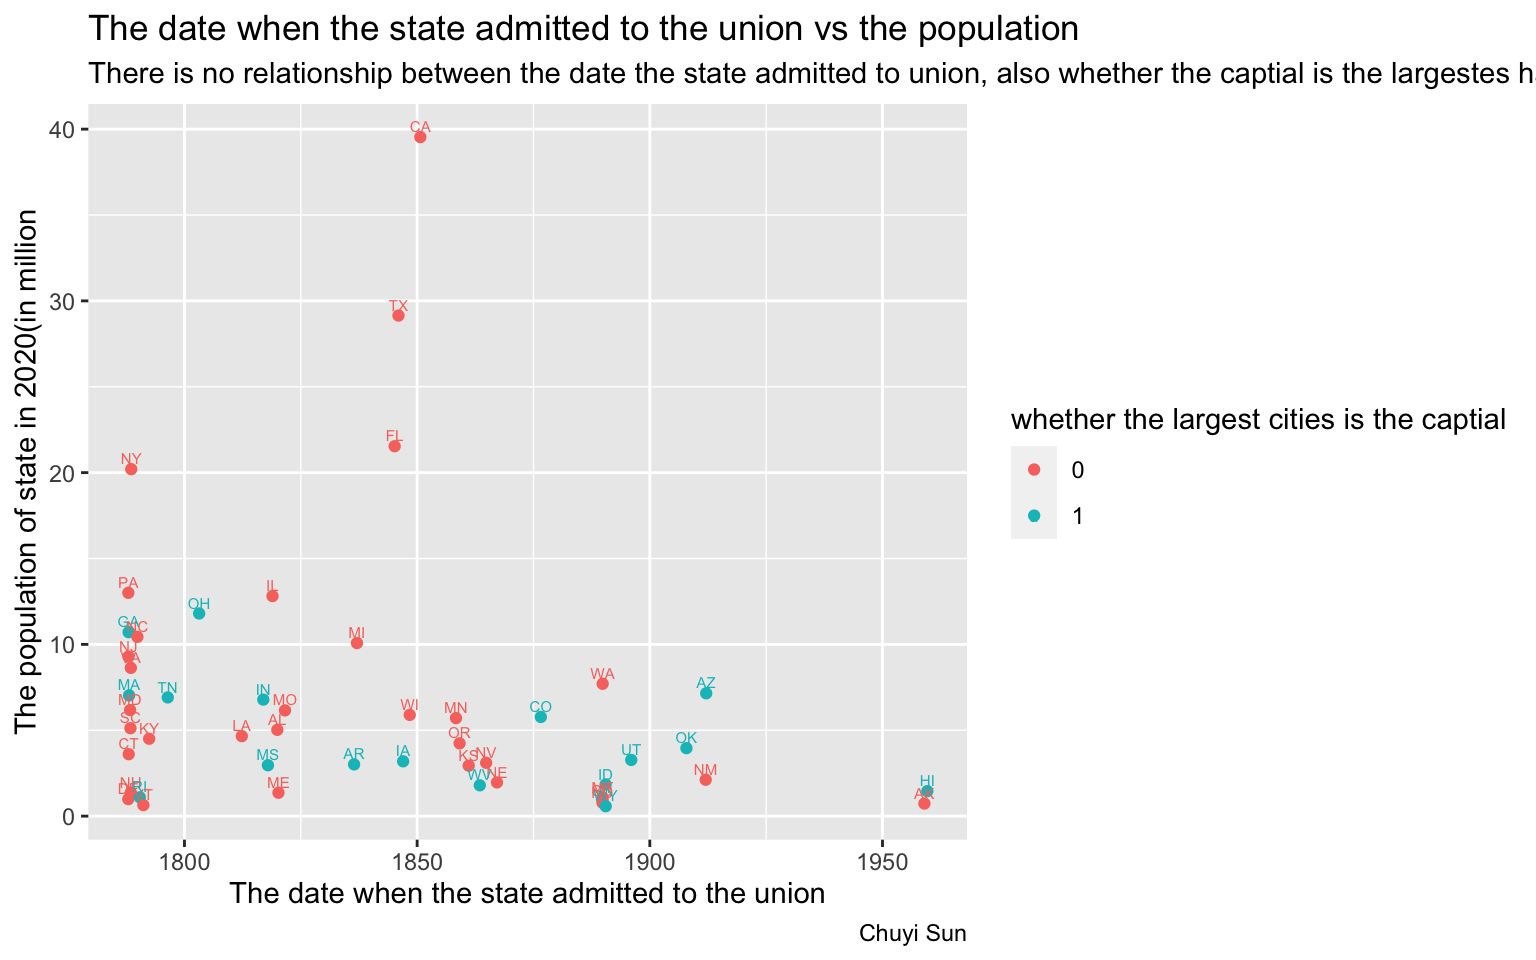
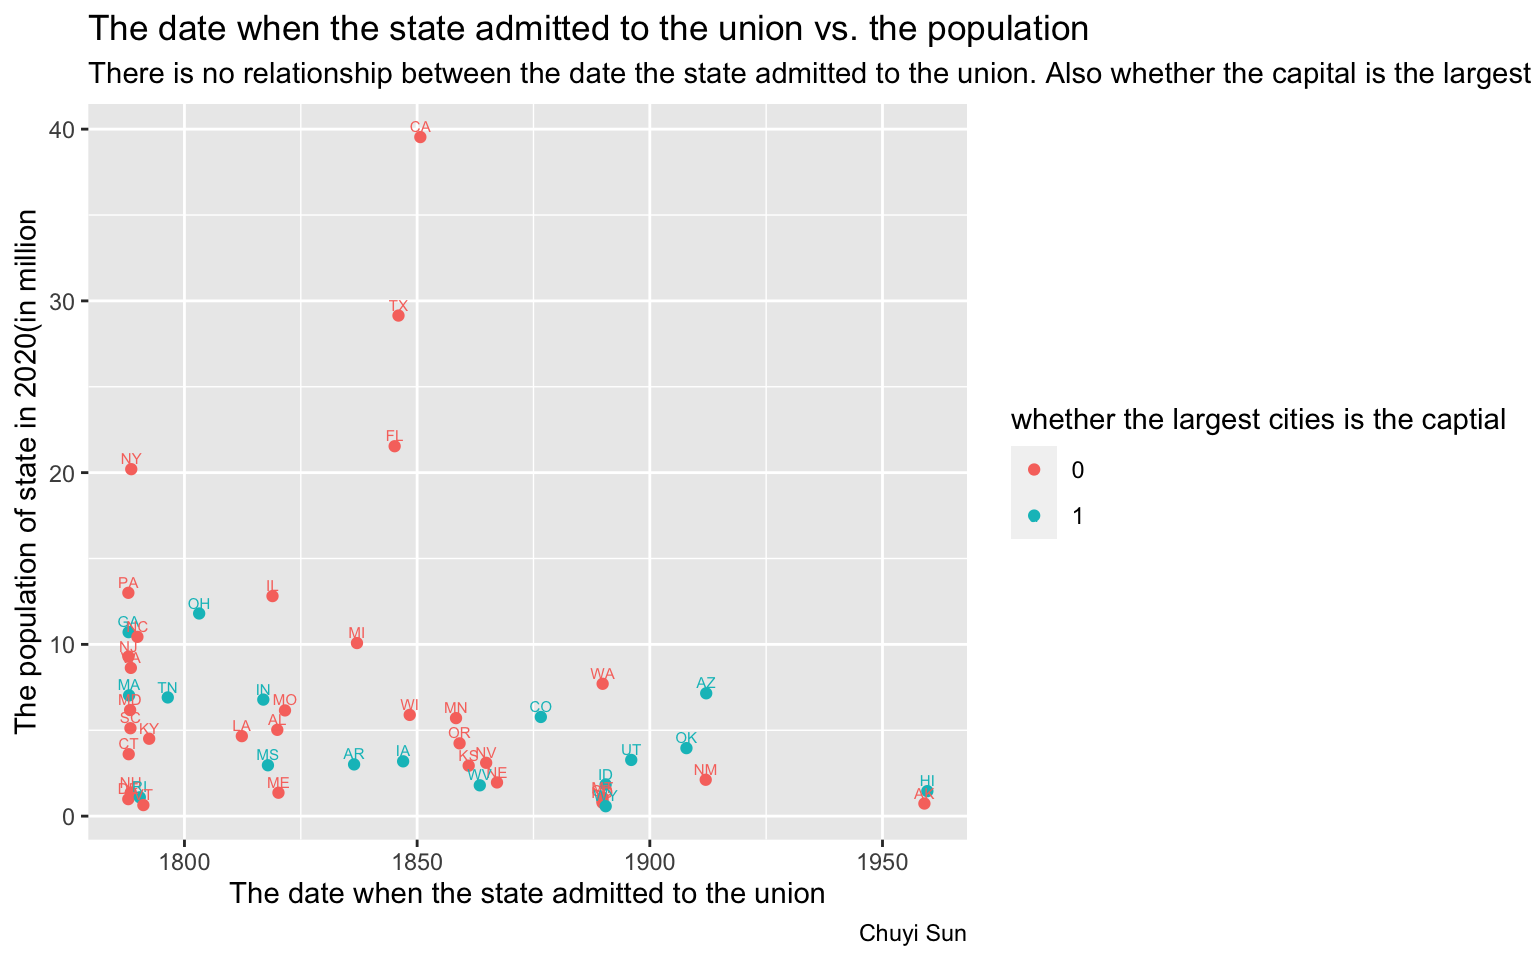
new

Changed region(s): [[0.5625, 0.0, 1.0, 0.0938]]

diff --git a/_site/data_analysis.html b/_site/data_analysis.html
@@ -207,19 +207,22 @@ div.csl-indent {
 </div>
 <section id="question" class="level2">
 <h2 class="anchored" data-anchor-id="question">Question</h2>
-<p>This analysis is aim to learn some information about different states in the US. from the article<span class="citation" data-cites="states_admission">(<a href="#ref-states_admission" role="doc-biblioref">ThoughtCo Year</a>)</span> and I have noticed that the capital might not the largest cities in the some states and capitals may also don’t have large population. Therefore I did this analysis try to see the relationship between total area, history of each state, and population.</p>
+<p>This analysis aims to gather some information about different states in the US. I used to think the capital is most likely to be the largest city in the state, however it seems most of the time it is not true, and after reading the article<span class="citation" data-cites="states_admission">(<a href="#ref-states_admission" role="doc-biblioref">ThoughtCo Year</a>)</span>, I am think whether is has some relation with the history. Therefore, I conducted this analysis try to explore the relationship between total area, history of each state, and its population.</p>
 </section>
 <section id="dataset-intro" class="level2">
 <h2 class="anchored" data-anchor-id="dataset-intro">Dataset Intro</h2>
-<p>The dataset is from tidytuesday<span class="citation" data-cites="tidytuesday">(<a href="#ref-tidytuesday" role="doc-biblioref">Community 2023</a>)</span>. The dictionary and dataset can be found from this <a href="https://github.com/rfordatascience/tidytuesday/blob/master/data/2023/2023-08-01/readme.md">website</a>. After install the tidytuesdayR, people also can get access to this dataset.</p>
+<p>The dataset is from tidytuesday<span class="citation" data-cites="tidytuesday">(<a href="#ref-tidytuesday" role="doc-biblioref">Community 2023</a>)</span>. The dictionary and dataset can be found on this <a href="https://github.com/rfordatascience/tidytuesday/blob/master/data/2023/2023-08-01/readme.md">website</a>. After installing the tidytuesdayR, people also can get access to this dataset.</p>
 </section>
 <section id="audiance" class="level2">
 <h2 class="anchored" data-anchor-id="audiance">Audiance</h2>
-<p>This data analysis is an demo of the visualization skills. It should be future develop using more advanced skills. Based on that, the current audience is the just the students in this course.</p>
+<p>This data analysis is a demonstration of the visualization skills. It should be further developed using more advanced techniques. Based on that, the current audience is the students in this course.</p>
 <div id="about-block">
 <div class="cell">
+<details>
+<summary>Code</summary>
 <div class="sourceCode cell-code" id="cb1"><pre class="sourceCode r code-with-copy"><code class="sourceCode r"><span id="cb1-1"><a href="#cb1-1" aria-hidden="true" tabindex="-1"></a><span class="fu">library</span>(tidytuesdayR)</span>
 <span id="cb1-2"><a href="#cb1-2" aria-hidden="true" tabindex="-1"></a><span class="fu">library</span>(tidyverse)</span></code><button title="Copy to Clipboard" class="code-copy-button"><i class="bi"></i></button></pre></div>
+</details>
 <div class="cell-output cell-output-stderr">
 <pre><code>── Attaching core tidyverse packages ──────────────────────── tidyverse 2.0.0 ──
 ✔ dplyr     1.1.3     ✔ readr     2.1.4
@@ -232,13 +235,19 @@ div.csl-indent {
 ✖ dplyr::lag()    masks stats::lag()
 ℹ Use the conflicted package (&lt;http://conflicted.r-lib.org/&gt;) to force all conflicts to become errors</code></pre>
 </div>
+<details>
+<summary>Code</summary>
 <div class="sourceCode cell-code" id="cb3"><pre class="sourceCode r code-with-copy"><code class="sourceCode r"><span id="cb3-1"><a href="#cb3-1" aria-hidden="true" tabindex="-1"></a><span class="fu">library</span>(dplyr)</span>
 <span id="cb3-2"><a href="#cb3-2" aria-hidden="true" tabindex="-1"></a><span class="fu">library</span>(ggplot2)</span></code><button title="Copy to Clipboard" class="code-copy-button"><i class="bi"></i></button></pre></div>
+</details>
 </div>
 <section id="import-data" class="level1">
 <h1>Import Data</h1>
 <div class="cell">
+<details>
+<summary>Code</summary>
 <div class="sourceCode cell-code" id="cb4"><pre class="sourceCode r code-with-copy"><code class="sourceCode r"><span id="cb4-1"><a href="#cb4-1" aria-hidden="true" tabindex="-1"></a>states<span class="ot">=</span> tidytuesdayR<span class="sc">::</span><span class="fu">tt_load</span>(<span class="st">'2023-08-01'</span>)</span></code><button title="Copy to Clipboard" class="code-copy-button"><i class="bi"></i></button></pre></div>
+</details>
 <div class="cell-output cell-output-stderr">
 <pre><code>--- Compiling #TidyTuesday Information for 2023-08-01 ----</code></pre>
 </div>
@@ -256,8 +265,11 @@ div.csl-indent {
 <div class="cell-output cell-output-stderr">
 <pre><code>--- Download complete ---</code></pre>
 </div>
+<details>
+<summary>Code</summary>
 <div class="sourceCode cell-code" id="cb10"><pre class="sourceCode r code-with-copy"><code class="sourceCode r"><span id="cb10-1"><a href="#cb10-1" aria-hidden="true" tabindex="-1"></a>states_general<span class="ot">=</span>states[[<span class="st">"states"</span>]]</span>
 <span id="cb10-2"><a href="#cb10-2" aria-hidden="true" tabindex="-1"></a>state_name_etymology<span class="ot">=</span>states[[<span class="st">"state_name_etymology"</span>]]</span></code><button title="Copy to Clipboard" class="code-copy-button"><i class="bi"></i></button></pre></div>
+</details>
 </div>
 </section>
 </div>
@@ -265,6 +277,8 @@ div.csl-indent {
 <section id="data-wrangling" class="level2">
 <h2 class="anchored" data-anchor-id="data-wrangling">Data Wrangling</h2>
 <div class="cell">
+<details>
+<summary>Code</summary>
 <div class="sourceCode cell-code" id="cb11"><pre class="sourceCode r code-with-copy"><code class="sourceCode r"><span id="cb11-1"><a href="#cb11-1" aria-hidden="true" tabindex="-1"></a>data_final<span class="ot">=</span>states_general<span class="sc">%&gt;%</span></span>
 <span id="cb11-2"><a href="#cb11-2" aria-hidden="true" tabindex="-1"></a>  <span class="fu">full_join</span>(state_name_etymology, <span class="at">by=</span><span class="st">"state"</span>)<span class="sc">%&gt;%</span></span>
 <span id="cb11-3"><a href="#cb11-3" aria-hidden="true" tabindex="-1"></a>  <span class="fu">distinct</span>(state, <span class="at">.keep_all=</span><span class="cn">TRUE</span>)<span class="sc">%&gt;%</span></span>
@@ -275,6 +289,7 @@ div.csl-indent {
 <span id="cb11-8"><a href="#cb11-8" aria-hidden="true" tabindex="-1"></a></span>
 <span id="cb11-9"><a href="#cb11-9" aria-hidden="true" tabindex="-1"></a>data_final<span class="sc">%&gt;%</span></span>
 <span id="cb11-10"><a href="#cb11-10" aria-hidden="true" tabindex="-1"></a>  <span class="fu">head</span>(<span class="dv">5</span>)</span></code><button title="Copy to Clipboard" class="code-copy-button"><i class="bi"></i></button></pre></div>
+</details>
 <div class="cell-output cell-output-stdout">
 <pre><code># A tibble: 5 × 16
   state postal_abbreviation capital_city largest_city admission  population_2020
@@ -300,10 +315,12 @@ Tip
 </div>
 </div>
 <div class="callout-body-container callout-body">
-<p>The state have more than one name and meanings, so we have over 50 row in our original dataset.</p>
+<p>Some state have more than one name and meanings, so we have over 50 row in our original dataset. After use distinct function, there should be only 50.</p>
 </div>
 </div>
 <div class="cell">
+<details>
+<summary>Code</summary>
 <div class="sourceCode cell-code" id="cb13"><pre class="sourceCode r code-with-copy"><code class="sourceCode r"><span id="cb13-1"><a href="#cb13-1" aria-hidden="true" tabindex="-1"></a>state_land<span class="ot">=</span>data_final<span class="sc">%&gt;%</span></span>
 <span id="cb13-2"><a href="#cb13-2" aria-hidden="true" tabindex="-1"></a>  <span class="fu">select</span>(state, land_area_km2)<span class="sc">%&gt;%</span></span>
 <span id="cb13-3"><a href="#cb13-3" aria-hidden="true" tabindex="-1"></a>  <span class="fu">rename</span>(<span class="at">area=</span>land_area_km2)<span class="sc">%&gt;%</span></span>
@@ -315,6 +332,7 @@ Tip
 <span id="cb13-9"><a href="#cb13-9" aria-hidden="true" tabindex="-1"></a>water_land<span class="ot">=</span>state_water<span class="sc">%&gt;%</span></span>
 <span id="cb13-10"><a href="#cb13-10" aria-hidden="true" tabindex="-1"></a>  <span class="fu">bind_rows</span>(state_land)<span class="sc">%&gt;%</span></span>
 <span id="cb13-11"><a href="#cb13-11" aria-hidden="true" tabindex="-1"></a>  <span class="fu">print</span>()</span></code><button title="Copy to Clipboard" class="code-copy-button"><i class="bi"></i></button></pre></div>
+</details>
 <div class="cell-output cell-output-stdout">
 <pre><code># A tibble: 100 × 3
    state         area area_type
@@ -342,31 +360,37 @@ Note
 </div>
 </div>
 <div class="callout-body-container callout-body">
-<p>This dataset contains the 50 states and their land and water area, we will use this explore the common fact about 50 states.</p>
+<p>This smaller dataset contains the 50 states and their land and water area, we will use this to explore the common fact about 50 states.</p>
 </div>
 </div>
 </section>
 <section id="part-1" class="level2 page-columns page-full">
 <h2 class="anchored" data-anchor-id="part-1">Part 1</h2>
 <div class="cell">
+<details>
+<summary>Code</summary>
 <div class="sourceCode cell-code" id="cb15"><pre class="sourceCode r code-with-copy"><code class="sourceCode r"><span id="cb15-1"><a href="#cb15-1" aria-hidden="true" tabindex="-1"></a>data_final<span class="sc">%&gt;%</span></span>
 <span id="cb15-2"><a href="#cb15-2" aria-hidden="true" tabindex="-1"></a>  <span class="fu">ggplot</span>(<span class="fu">aes</span>(<span class="at">x=</span>admission, <span class="at">y=</span>population_2020, <span class="at">colour=</span><span class="fu">factor</span>(matched_cities)))<span class="sc">+</span></span>
 <span id="cb15-3"><a href="#cb15-3" aria-hidden="true" tabindex="-1"></a>  <span class="fu">geom_point</span>()<span class="sc">+</span></span>
 <span id="cb15-4"><a href="#cb15-4" aria-hidden="true" tabindex="-1"></a>  <span class="fu">geom_text</span>(<span class="fu">aes</span>(<span class="at">label=</span>postal_abbreviation),<span class="at">size=</span><span class="dv">2</span>,<span class="at">vjust =</span> <span class="sc">-</span><span class="fl">0.5</span>)<span class="sc">+</span></span>
-<span id="cb15-5"><a href="#cb15-5" aria-hidden="true" tabindex="-1"></a>  <span class="fu">labs</span>(<span class="at">title =</span> <span class="st">"The date when the state admitted to the union vs the population"</span>,</span>
-<span id="cb15-6"><a href="#cb15-6" aria-hidden="true" tabindex="-1"></a>       <span class="at">subtitle =</span> <span class="st">"There is no relationship between the date the state admitted to union, also whether the captial is the largestes has no relationship with population"</span>, <span class="at">x=</span><span class="st">"The date when the state admitted to the union"</span>, <span class="at">y=</span><span class="st">"The population of state in 2020(in million"</span>, </span>
+<span id="cb15-5"><a href="#cb15-5" aria-hidden="true" tabindex="-1"></a>  <span class="fu">labs</span>(<span class="at">title =</span> <span class="st">"The date when the state admitted to the union vs. the population"</span>,</span>
+<span id="cb15-6"><a href="#cb15-6" aria-hidden="true" tabindex="-1"></a>       <span class="at">subtitle =</span> <span class="st">"There is no relationship between the date the state admitted to the union. Also whether the capital is the largest city has no correlation with the population"</span>, <span class="at">x=</span><span class="st">"The date when the state admitted to the union"</span>, <span class="at">y=</span><span class="st">"The population of state in 2020(in million"</span>, </span>
 <span id="cb15-7"><a href="#cb15-7" aria-hidden="true" tabindex="-1"></a>       <span class="at">color=</span><span class="st">"whether the largest cities is the captial"</span>, <span class="at">caption=</span><span class="st">"Chuyi Sun"</span>)</span></code><button title="Copy to Clipboard" class="code-copy-button"><i class="bi"></i></button></pre></div>
+</details>
 <div class="cell-output-display">
 <p><img src="data_analysis_files/figure-html/unnamed-chunk-5-1.png" class="img-fluid" width="768"></p>
 </div>
 </div>
 <div class="cell page-columns page-full">
+<details>
+<summary>Code</summary>
 <div class="sourceCode cell-code" id="cb16"><pre class="sourceCode r code-with-copy"><code class="sourceCode r"><span id="cb16-1"><a href="#cb16-1" aria-hidden="true" tabindex="-1"></a>knitr<span class="sc">::</span><span class="fu">kable</span>(</span>
 <span id="cb16-2"><a href="#cb16-2" aria-hidden="true" tabindex="-1"></a>  data_final<span class="sc">%&gt;%</span></span>
 <span id="cb16-3"><a href="#cb16-3" aria-hidden="true" tabindex="-1"></a>    <span class="fu">select</span>(state, admission)<span class="sc">%&gt;%</span></span>
 <span id="cb16-4"><a href="#cb16-4" aria-hidden="true" tabindex="-1"></a>    <span class="fu">arrange</span>(admission)<span class="sc">%&gt;%</span></span>
 <span id="cb16-5"><a href="#cb16-5" aria-hidden="true" tabindex="-1"></a>    <span class="fu">head</span>(<span class="dv">5</span>)</span>
 <span id="cb16-6"><a href="#cb16-6" aria-hidden="true" tabindex="-1"></a>)</span></code><button title="Copy to Clipboard" class="code-copy-button"><i class="bi"></i></button></pre></div>
+</details>
 
 <div class="no-row-height column-margin column-container"><div class="cell-output-display">
 <table class="table table-sm table-striped small">
@@ -404,12 +428,15 @@ Note
 <section id="part-2" class="level2 page-columns page-full">
 <h2 class="anchored" data-anchor-id="part-2">Part 2</h2>
 <div class="cell">
+<details>
+<summary>Code</summary>
 <div class="sourceCode cell-code" id="cb17"><pre class="sourceCode r code-with-copy"><code class="sourceCode r"><span id="cb17-1"><a href="#cb17-1" aria-hidden="true" tabindex="-1"></a>data_final<span class="sc">%&gt;%</span></span>
 <span id="cb17-2"><a href="#cb17-2" aria-hidden="true" tabindex="-1"></a>  <span class="fu">ggplot</span>(<span class="fu">aes</span>(<span class="at">x=</span>total_area_km2, <span class="at">y=</span>population_2020))<span class="sc">+</span></span>
 <span id="cb17-3"><a href="#cb17-3" aria-hidden="true" tabindex="-1"></a>  <span class="fu">geom_smooth</span>(<span class="at">se=</span>F)<span class="sc">+</span>  </span>
 <span id="cb17-4"><a href="#cb17-4" aria-hidden="true" tabindex="-1"></a>  <span class="fu">labs</span>(<span class="at">title =</span> <span class="st">"The relationship between land and population"</span>,</span>
 <span id="cb17-5"><a href="#cb17-5" aria-hidden="true" tabindex="-1"></a>       <span class="at">subtitle =</span> <span class="st">"The relationship between population and area of the state is not a strict linear relationship"</span>, <span class="at">x=</span><span class="st">"total area in thounds km2"</span>, <span class="at">y=</span><span class="st">"total poplation(in million)"</span>, <span class="at">caption =</span> <span class="st">"Chuyi Sun"</span>)<span class="sc">+</span></span>
 <span id="cb17-6"><a href="#cb17-6" aria-hidden="true" tabindex="-1"></a>  <span class="fu">theme</span>(<span class="at">axis.text =</span> <span class="fu">element_text</span>(<span class="at">size =</span><span class="dv">12</span>), <span class="at">axis.title =</span> <span class="fu">element_text</span>(<span class="at">size =</span> <span class="dv">14</span>))</span></code><button title="Copy to Clipboard" class="code-copy-button"><i class="bi"></i></button></pre></div>
+</details>
 <div class="cell-output cell-output-stderr">
 <pre><code>`geom_smooth()` using method = 'loess' and formula = 'y ~ x'</code></pre>
 </div>
@@ -418,12 +445,15 @@ Note
 </div>
 </div>
 <div class="cell page-columns page-full">
+<details>
+<summary>Code</summary>
 <div class="sourceCode cell-code" id="cb19"><pre class="sourceCode r code-with-copy"><code class="sourceCode r"><span id="cb19-1"><a href="#cb19-1" aria-hidden="true" tabindex="-1"></a>knitr<span class="sc">::</span><span class="fu">kable</span>(</span>
 <span id="cb19-2"><a href="#cb19-2" aria-hidden="true" tabindex="-1"></a>  data_final<span class="sc">%&gt;%</span></span>
 <span id="cb19-3"><a href="#cb19-3" aria-hidden="true" tabindex="-1"></a>    <span class="fu">select</span>(state, total_area_km2)<span class="sc">%&gt;%</span></span>
 <span id="cb19-4"><a href="#cb19-4" aria-hidden="true" tabindex="-1"></a>    <span class="fu">arrange</span>(<span class="fu">desc</span>(total_area_km2))<span class="sc">%&gt;%</span></span>
 <span id="cb19-5"><a href="#cb19-5" aria-hidden="true" tabindex="-1"></a>    <span class="fu">head</span>(<span class="dv">5</span>)</span>
 <span id="cb19-6"><a href="#cb19-6" aria-hidden="true" tabindex="-1"></a>)</span></code><button title="Copy to Clipboard" class="code-copy-button"><i class="bi"></i></button></pre></div>
+</details>
 
 <div class="no-row-height column-margin column-container"><div class="cell-output-display">
 <table class="table table-sm table-striped small">
@@ -458,12 +488,15 @@ Note
 </table>
 </div></div></div>
 <div class="cell page-columns page-full">
+<details>
+<summary>Code</summary>
 <div class="sourceCode cell-code" id="cb20"><pre class="sourceCode r code-with-copy"><code class="sourceCode r"><span id="cb20-1"><a href="#cb20-1" aria-hidden="true" tabindex="-1"></a>knitr<span class="sc">::</span><span class="fu">kable</span>(</span>
 <span id="cb20-2"><a href="#cb20-2" aria-hidden="true" tabindex="-1"></a>  data_final<span class="sc">%&gt;%</span></span>
 <span id="cb20-3"><a href="#cb20-3" aria-hidden="true" tabindex="-1"></a>    <span class="fu">select</span>(state, population_2020)<span class="sc">%&gt;%</span></span>
 <span id="cb20-4"><a href="#cb20-4" aria-hidden="true" tabindex="-1"></a>    <span class="fu">arrange</span>(<span class="fu">desc</span>(population_2020))<span class="sc">%&gt;%</span></span>
 <span id="cb20-5"><a href="#cb20-5" aria-hidden="true" tabindex="-1"></a>    <span class="fu">head</span>(<span class="dv">5</span>)</span>
 <span id="cb20-6"><a href="#cb20-6" aria-hidden="true" tabindex="-1"></a>)</span></code><button title="Copy to Clipboard" class="code-copy-button"><i class="bi"></i></button></pre></div>
+</details>
 
 <div class="no-row-height column-margin column-container"><div class="cell-output-display">
 <table class="table table-sm table-striped small">
@@ -501,12 +534,15 @@ Note
 <section id="part-3" class="level2">
 <h2 class="anchored" data-anchor-id="part-3">Part 3</h2>
 <div class="cell">
+<details>
+<summary>Code</summary>
 <div class="sourceCode cell-code" id="cb21"><pre class="sourceCode r code-with-copy"><code class="sourceCode r"><span id="cb21-1"><a href="#cb21-1" aria-hidden="true" tabindex="-1"></a>water_land<span class="sc">%&gt;%</span></span>
 <span id="cb21-2"><a href="#cb21-2" aria-hidden="true" tabindex="-1"></a>  <span class="fu">ggplot</span>(<span class="fu">aes</span>(<span class="at">x=</span>area_type, <span class="at">y=</span>area, <span class="at">fill=</span>area_type))<span class="sc">+</span></span>
 <span id="cb21-3"><a href="#cb21-3" aria-hidden="true" tabindex="-1"></a>  <span class="fu">geom_bar</span>(<span class="at">stat=</span><span class="st">"identity"</span>)<span class="sc">+</span></span>
 <span id="cb21-4"><a href="#cb21-4" aria-hidden="true" tabindex="-1"></a>  <span class="fu">facet_wrap</span>(<span class="sc">~</span>state,<span class="at">scales =</span> <span class="st">"fixed"</span>, <span class="at">nrow=</span><span class="dv">10</span>)<span class="sc">+</span></span>
 <span id="cb21-5"><a href="#cb21-5" aria-hidden="true" tabindex="-1"></a>  <span class="fu">labs</span>(<span class="at">title =</span> <span class="st">"The water area and land area of each state"</span>,</span>
-<span id="cb21-6"><a href="#cb21-6" aria-hidden="true" tabindex="-1"></a>       <span class="at">subtitle =</span> <span class="st">"Overall, all the state have more land area than water area. Alaska has the largest lan area and water area"</span>, <span class="at">x=</span><span class="st">"the type of area"</span>, <span class="at">y=</span><span class="st">"area in thounds km2"</span>, <span class="at">caption =</span> <span class="st">"Chuyi Sun"</span>)</span></code><button title="Copy to Clipboard" class="code-copy-button"><i class="bi"></i></button></pre></div>
+<span id="cb21-6"><a href="#cb21-6" aria-hidden="true" tabindex="-1"></a>       <span class="at">subtitle =</span> <span class="st">"Overall, all the state have more land area than water area. Alaska has the largest land area and water area"</span>, <span class="at">x=</span><span class="st">"the type of area"</span>, <span class="at">y=</span><span class="st">"area in thounds km2"</span>, <span class="at">caption =</span> <span class="st">"Chuyi Sun"</span>)</span></code><button title="Copy to Clipboard" class="code-copy-button"><i class="bi"></i></button></pre></div>
+</details>
 <div class="cell-output-display">
 <p><img src="data_analysis_files/figure-html/unnamed-chunk-10-1.png" class="img-fluid" width="864"></p>
 </div>
@@ -516,13 +552,13 @@ Note
 <h2 class="anchored" data-anchor-id="part-4">Part 4</h2>
 <section id="summary" class="level5">
 <h5 class="anchored" data-anchor-id="summary">Summary</h5>
-<p>Before the analysis, I assume there are might be some relationship between the total area, history of each state, and population. However, from the result, we can’t establish any relationship between these three aspect. The additional results we can conclude is US has more land area than water area, which consistent with the latitude and longitude of the US. Lastly, if the state have the more area that means that the population is large, eg Alaska<span class="citation" data-cites="alaska">(<a href="#ref-alaska" role="doc-biblioref">Alaska.org Year</a>)</span> has large area, but the climate is not good for living.</p>
+<p>Before the analysis, I assumed there might be a relationship between the total area, history of each state, and population. However, from the results, we can’t establish any relationship between these three aspects. The additional results we can conclude is US has more land area than the water area, which is consistent with its latitude and longitude. Lastly, if the state has the more area that doesn’t mean that the population is large, eg Alaska<span class="citation" data-cites="alaska">(<a href="#ref-alaska" role="doc-biblioref">Alaska.org Year</a>)</span> has a large area, but the climate is not good for living.</p>
 </section>
 </section>
 <section id="part-5" class="level2">
 <h2 class="anchored" data-anchor-id="part-5">Part 5</h2>
-<section id="function" class="level6">
-<h6 class="anchored" data-anchor-id="function">Function</h6>
+<section id="functions-used" class="level6">
+<h6 class="anchored" data-anchor-id="functions-used">Functions used</h6>
 <p>dplyr</p>
 <ul>
 <li>mutate</li>

diff --git a/_site/index.html b/_site/index.html
@@ -7,7 +7,7 @@
 <meta name="viewport" content="width=device-width, initial-scale=1.0, user-scalable=yes">
 
 
-<title>Chuyi’s Website - Chuyi</title>
+<title>Chuyi’s Website -</title>
 <style>
 code{white-space: pre-wrap;}
 span.smallcaps{font-variant: small-caps;}
@@ -116,13 +116,6 @@ ul.task-list li input[type="checkbox"] {
   <div class="about-entity">
     <img src="Daisy.png" class="about-image
   rounded " style="width: 20em;">
-<header id="title-block-header" class="quarto-title-block default">
-<div class="quarto-title">
-<h1 class="title">Chuyi</h1>
-</div>
-<div class="quarto-title-meta">
-  </div>
-</header>
   </div>
   <div class="about-contents"><main class="content" id="quarto-document-content">
 

diff --git a/_site/about.html b/_site/about.html
@@ -149,7 +149,7 @@ Bachelor of Science in Statistics</p>
 </section>
 <section id="research-interest" class="level1">
 <h1>Research Interest</h1>
-<p>Still exploring differenr field in biostatistics.</p>
+<p>Still exploring different field in biostatistics.</p>
 
 
 </section>

diff --git a/README.md b/README.md
@@ -1,3 +1,6 @@
 # biostat777-intro-Chuyi-Sun
 
-This is hhhhh.
+This website is made by Chuyi Sun. This website includes some information about the author and an example of data visualization. This website only used some basic techniques both in website building and visualization. With ongoing learning, this website will be further enhanced with more advanced techniques and focusing on a more professional scope.
+
+The link of the deployed website is https://chuyisun.quarto.pub/chuyis-website/
+
